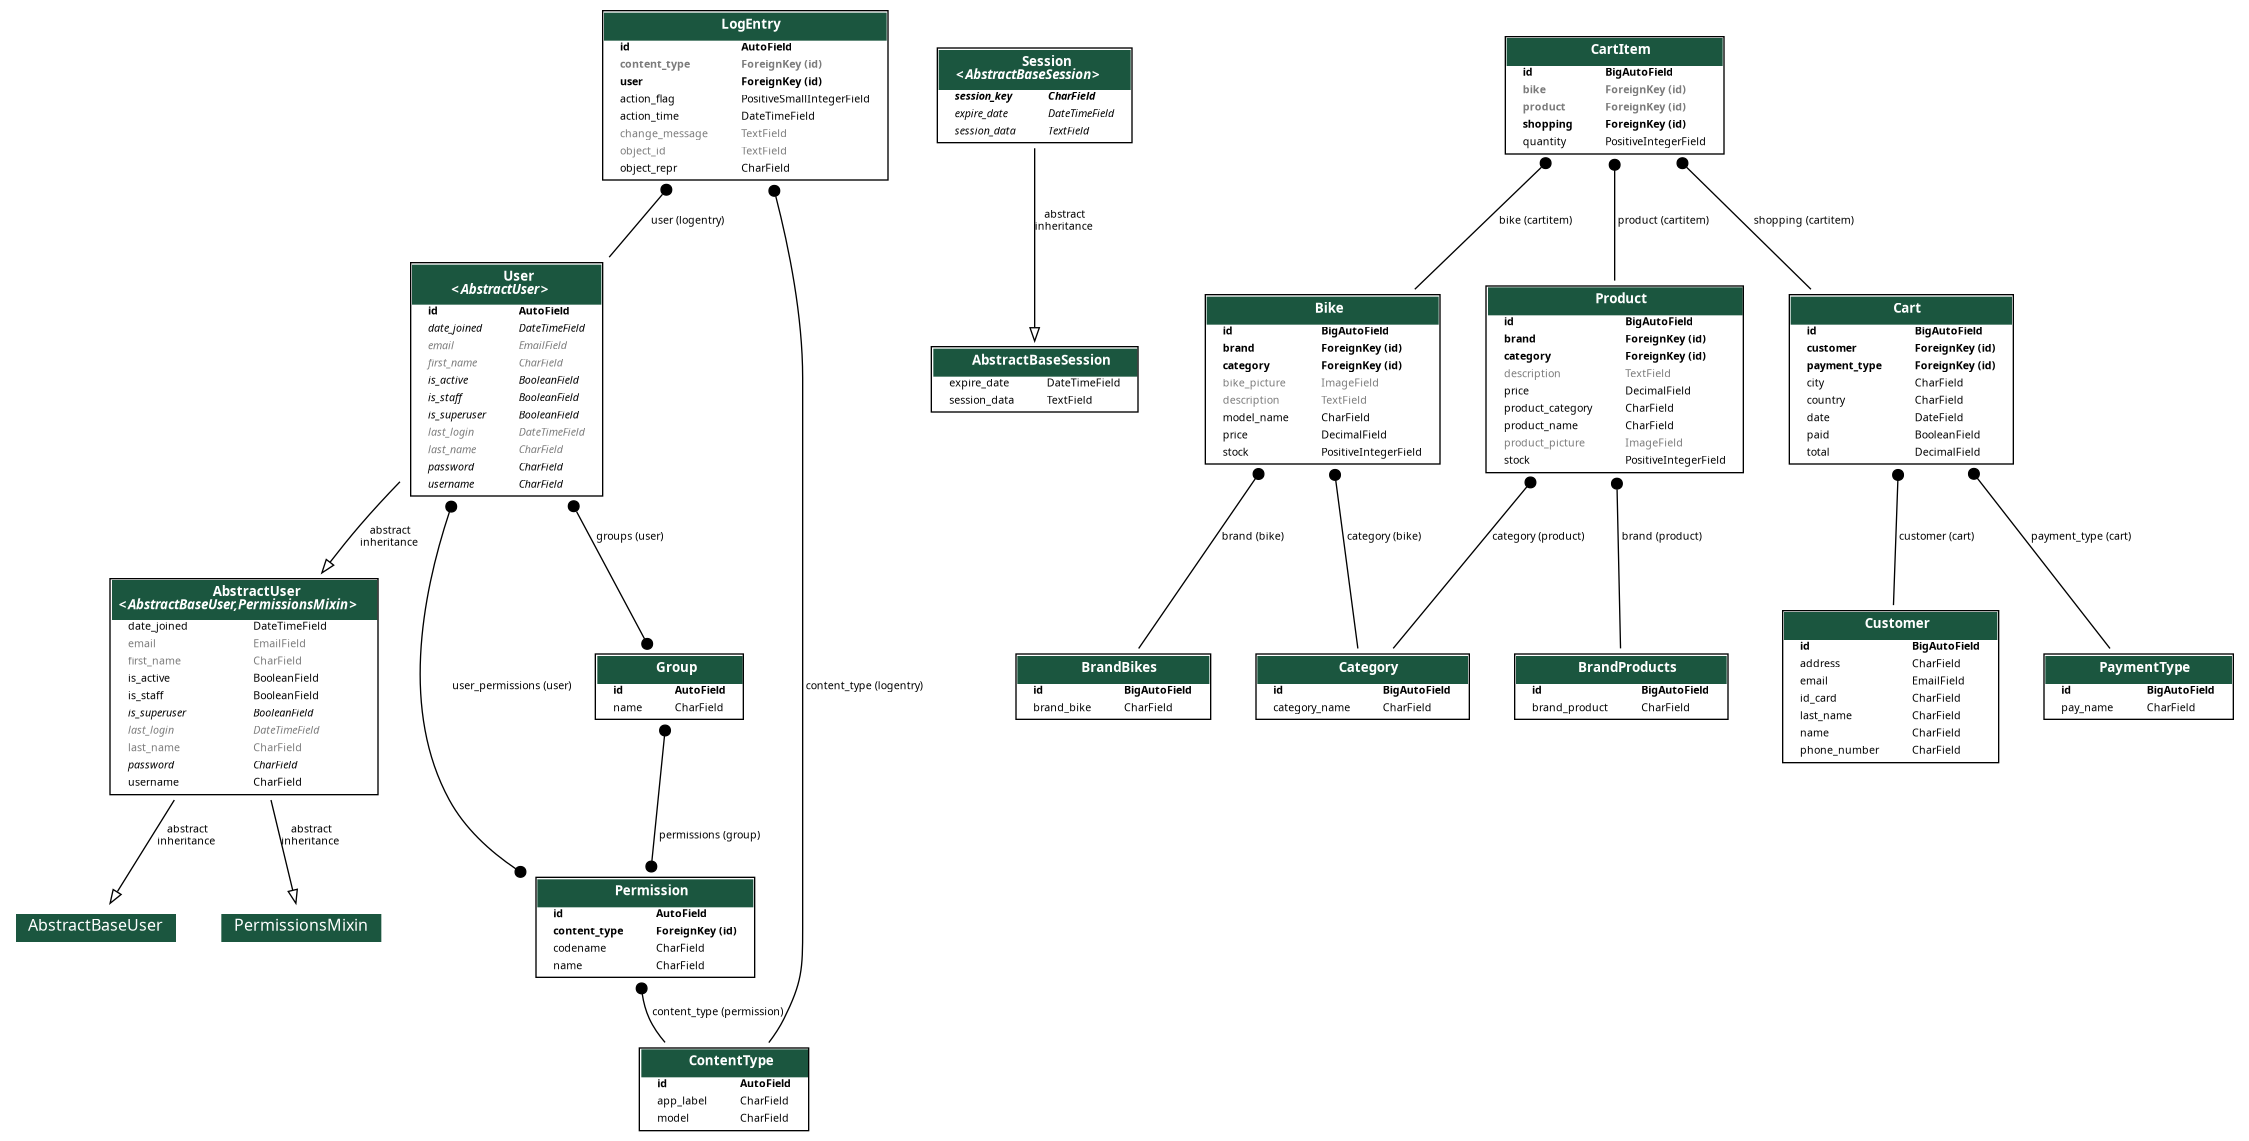
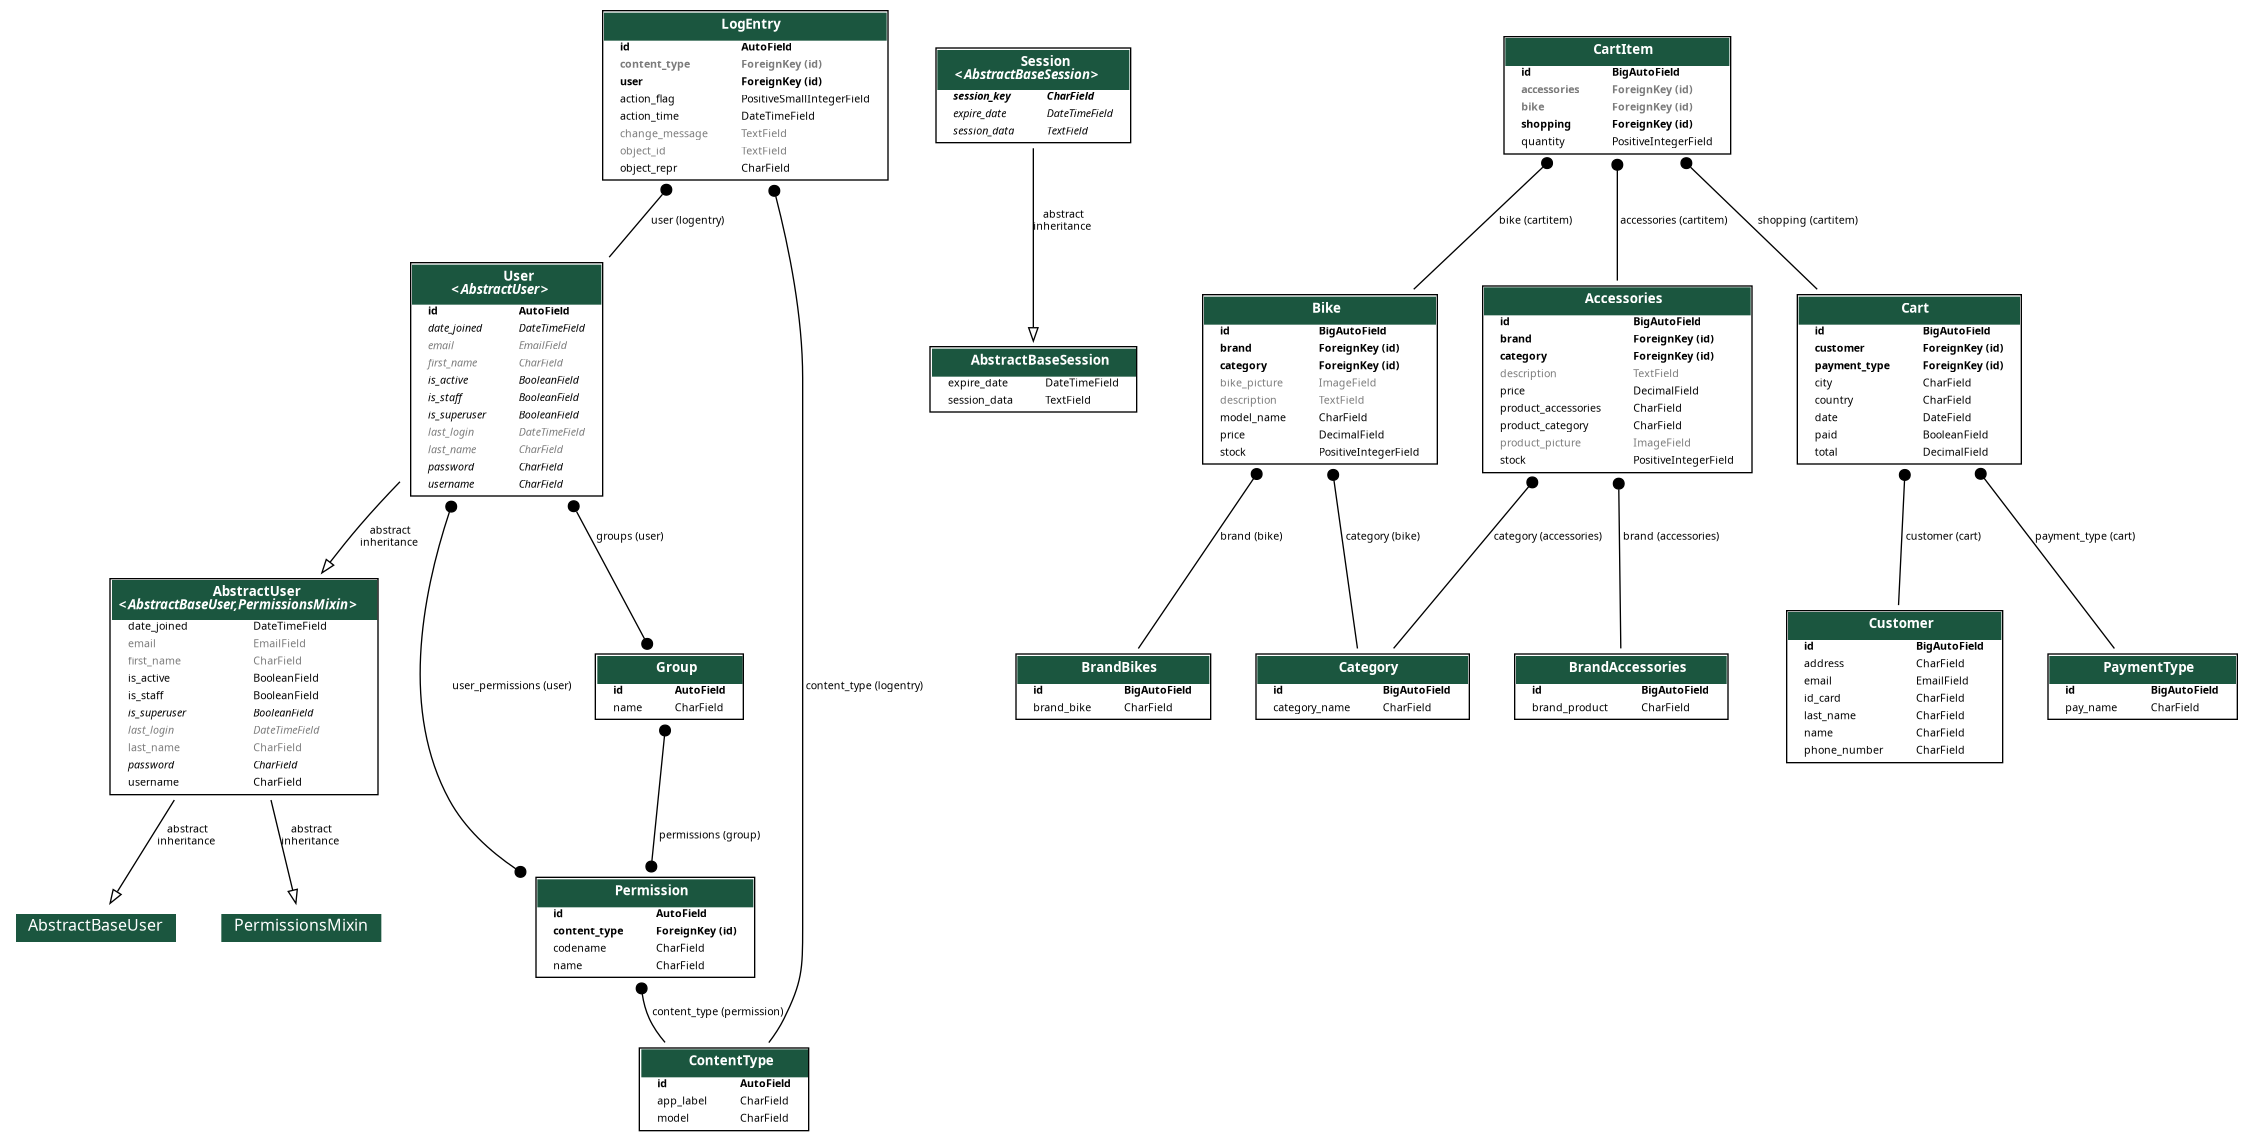
Modelos y Formularios

diff --git a/city_cyclist/models.py b/city_cyclist/models.py
@@ -14,7 +14,7 @@ class BrandBikes(models.Model):
     def __str__(self):
         return self.brand_bike
 
-class BrandProducts(models.Model):
+class BrandAccessories(models.Model):
     brand_product = models.CharField(max_length=30, null=False, unique=True)
     
     def __str__(self):
@@ -35,8 +35,8 @@ class Bike(models.Model):
         return f'{self.model_name} - {self.brand} - {self.category}'
 
 
-class Product(models.Model):
-    product_name = models.CharField(max_length=30, unique=True)
+class Accessories(models.Model):
+    product_accessories = models.CharField(max_length=30, unique=True)
     PRODUCT_CATEGORY= {
         ("Aros", "Aros"),
         ("Casco", "Casco"),
@@ -50,7 +50,7 @@ class Product(models.Model):
                                 validators=[MinValueValidator(0.99, message="El producto mas económico cuesta 0,99")]) 
     stock = models.PositiveIntegerField() 
     description = models.TextField(blank=True, null=True)
-    brand = models.ForeignKey(BrandProducts, on_delete=models.CASCADE) 
+    brand = models.ForeignKey(BrandAccessories, on_delete=models.CASCADE) 
     category = models.ForeignKey(Category, on_delete=models.CASCADE)
     product_picture = models.ImageField(upload_to='product_images', blank=True, null=True)
 
@@ -111,17 +111,17 @@ class Cart(models.Model):
 class CartItem(models.Model):
     shopping = models.ForeignKey(Cart, on_delete=models.CASCADE)
     bike = models.ForeignKey(Bike, on_delete=models.CASCADE, blank=True, null=True)
-    product = models.ForeignKey(Product, on_delete=models.CASCADE, blank=True, null=True)
+    accessories = models.ForeignKey(Accessories, on_delete=models.CASCADE, blank=True, null=True)
     quantity = models.PositiveIntegerField(default=1)
 
     def subtotal(self):
         if self.bike:
             return self.quantity * self.bike.price
-        elif self.product:
-            return self.quantity * self.product.price
+        elif self.accessories:
+            return self.quantity * self.accessories.price
         return Decimal('0.00')
 
     def __str__(self):
-        item_name = self.bike.model_name if self.bike else self.product.product_name
-        item_price = self.bike.price if self.bike else self.product.price
+        item_name = self.bike.model_name if self.bike else self.accessories.price
+        item_price = self.bike.price if self.bike else self.accessories.price
         return f'{item_name} - Cantidad: {self.quantity} - Precio unitario: {item_price} - Subtotal: {self.subtotal()}'

diff --git a/city_cyclist/admin.py b/city_cyclist/admin.py
@@ -1,5 +1,5 @@
 from django.contrib import admin
-from .models import Category, Bike, Product, Customer, PaymentType, Cart, BrandBikes, CartItem, BrandProducts
+from .models import Category, Bike, Accessories, Customer, PaymentType, Cart, BrandBikes, CartItem, BrandAccessories
 
 
 @admin.register(Category)
@@ -11,7 +11,7 @@ class CategoryAdmin(admin.ModelAdmin):
 class BikeAdmin(admin.ModelAdmin):
     pass
 
-@admin.register(Product)
+@admin.register(Accessories)
 class ProductAdmin(admin.ModelAdmin):
     pass
 
@@ -32,7 +32,7 @@ class ShoppingAdmin(admin.ModelAdmin):
 class BrandBikesAdmin(admin.ModelAdmin):
     pass
 
-@admin.register(BrandProducts)
+@admin.register(BrandAccessories)
 class BrandProductsAdmin(admin.ModelAdmin):
     pass
 

diff --git a/bicycle_shop/settings.py b/bicycle_shop/settings.py
@@ -78,7 +78,7 @@ WSGI_APPLICATION = 'bicycle_shop.wsgi.application'
 DATABASES = {
     'default': {
         'ENGINE': 'django.db.backends.postgresql',
-        'NAME': 'prueba',
+        'NAME': '2prueba',
         'HOST': 'localhost',
         'PORT': '5432',
         'USER': 'stalin',
